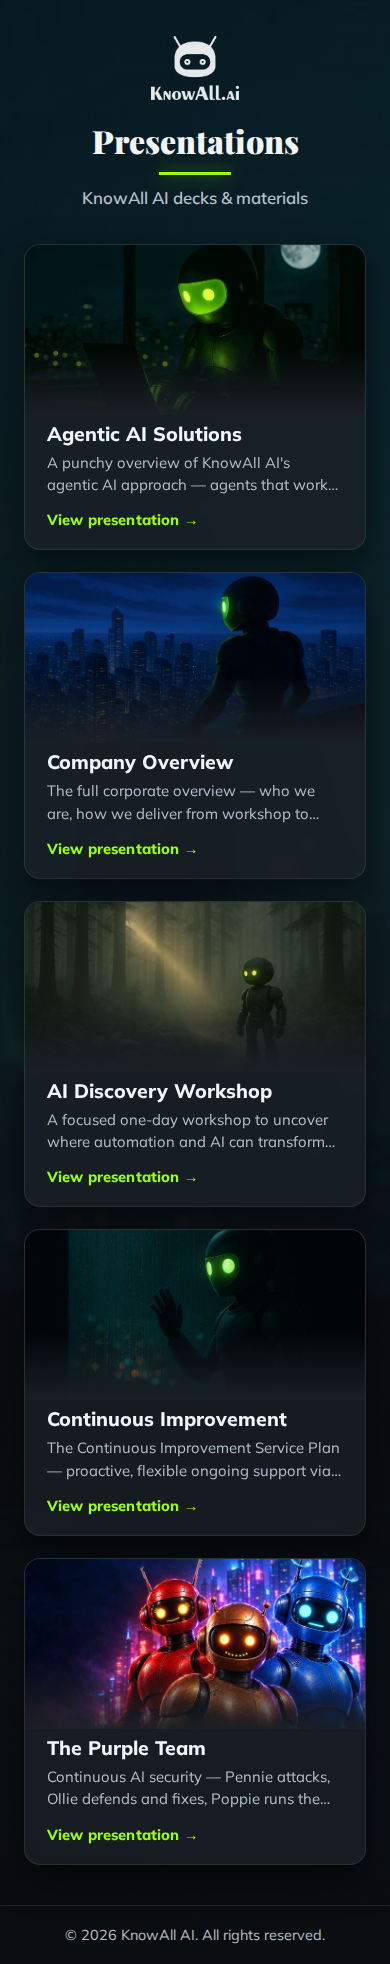
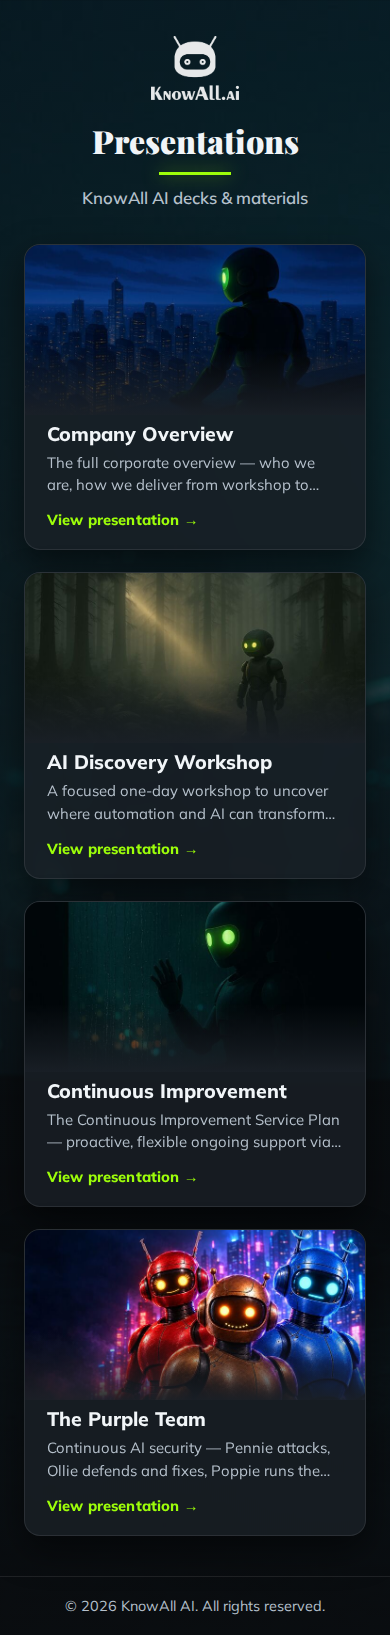
fix(presentations): keep the 2×2 index above the fold on 900 and 768px-tall screens
The compact header and shorter thumbnails now apply up to 960px tall (was
860px), with shorter thumbnails again at 780px and below: the last card
ends at 783/900 at 1440×900 and 717/768 at 1366×768. The index screenshots
in docs/ are refreshed for the PR.

diff --git a/public/presentations/index.html b/public/presentations/index.html
@@ -238,8 +238,8 @@
         font-size: 0.9rem;
       }
 
-      /* shorter laptop screens: keep all four decks above the fold */
-      @media (min-width: 1081px) and (max-height: 860px) {
+      /* laptop screens (up to 960px tall): keep all four decks above the fold */
+      @media (min-width: 1081px) and (max-height: 960px) {
         .band {
           padding: 22px 24px 10px;
         }
@@ -278,6 +278,13 @@
 
         .presentation-card p {
           margin-bottom: 8px;
+        }
+      }
+
+      /* 768px-tall screens: shorter thumbnails still */
+      @media (min-width: 1081px) and (max-height: 780px) {
+        .thumb {
+          aspect-ratio: 16 / 5;
         }
       }
 
